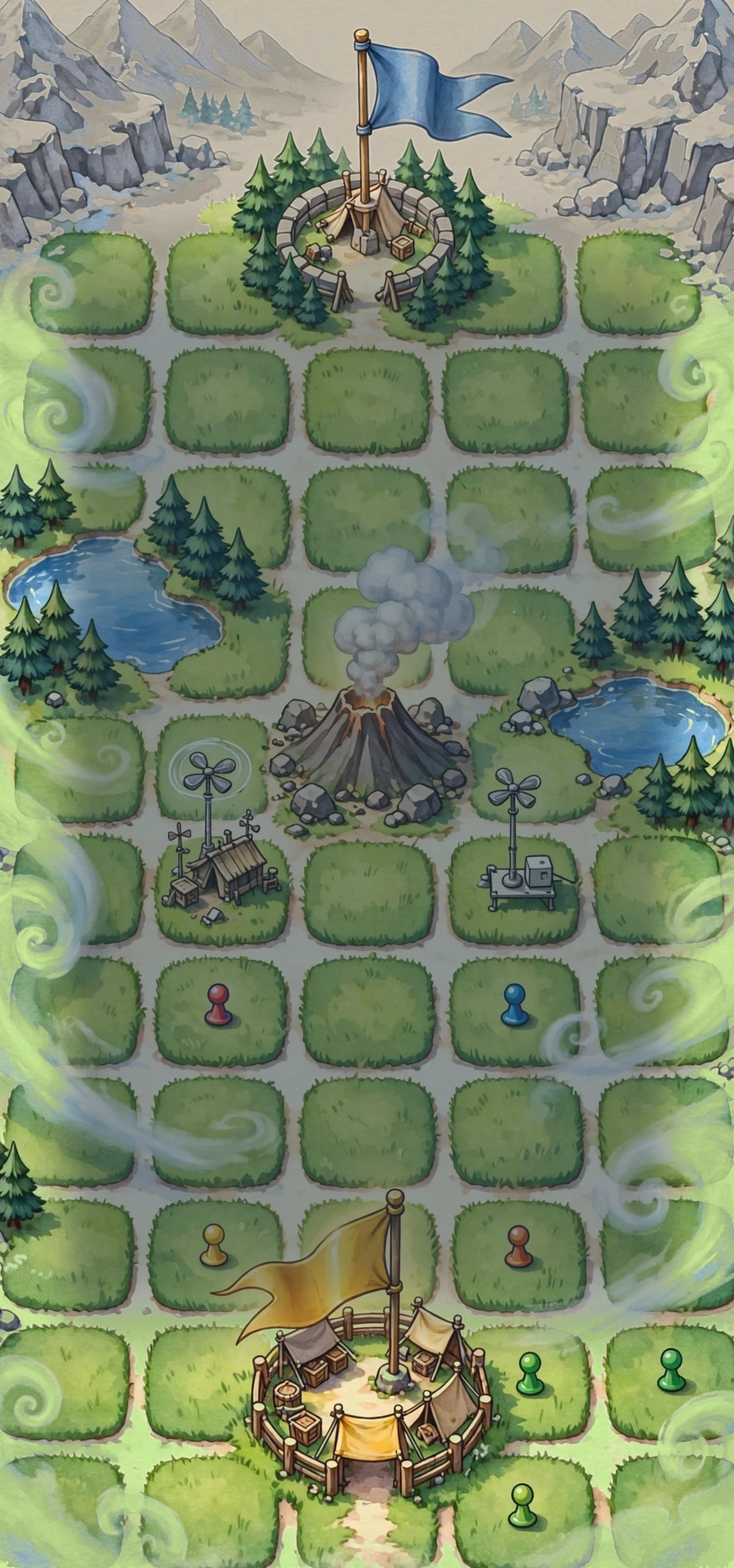
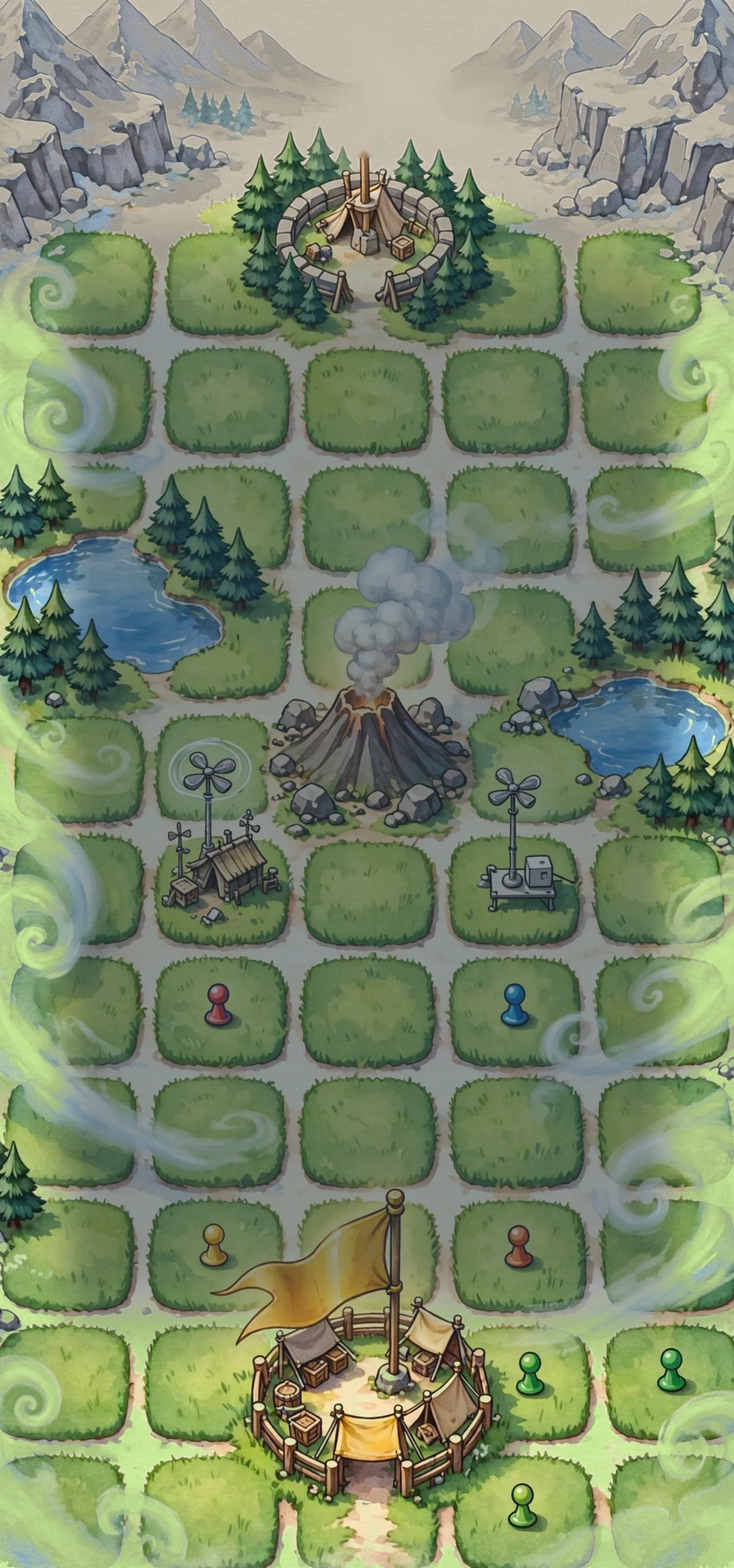
v47: menu iniziale adattato allo schermo, tolta bandiera dello sfondo
Claude-Session: https://claude.ai/code/session_01EeKiG8y1kcPbdSHUHGW8AA

Changed region(s): [[0.4612, 0.0, 0.7071, 0.0932]]

diff --git a/www/index.html b/www/index.html
@@ -132,7 +132,9 @@ body.gpui #ovStart .card h1{font-size:0;flex:none;height:118px;margin:-4px 0 0;b
 
 /* Menu iniziale «Mare dipinto» (pezzi di Muse estratti dalla bozza approvata) */
 body.gpui #ovStart{background:url(assets/menu/sfondo_menu.webp) center/cover no-repeat;padding-top:62px}
-body.gpui #ovStart .card{position:relative;isolation:isolate;overflow:visible;background:none;border:0;border-radius:0;max-width:392px;padding:88px 34px 40px;gap:8px;max-height:100%}
+body.gpui #ovStart{padding:62px 8px 10px}
+body.gpui #ovStart .card{box-sizing:border-box;width:100%;position:relative;isolation:isolate;overflow:visible;background:none;border:0;border-radius:0;max-width:392px;padding:88px 30px 40px;gap:8px;max-height:none}
+body.gpui #ovStart img.tx{max-width:100%;height:auto}
 body.gpui #ovStart .card::before{content:'';position:absolute;inset:0;z-index:-1;border:80px solid transparent;border-image:url(assets/menu/menu_pannello.png) 240 fill/80px stretch;pointer-events:none}
 body.gpui #ovStart .card::after{content:'';position:absolute;left:50%;top:0;width:150px;height:150px;transform:translate(-50%,-50%);background:url(assets/menu/menu_simbolo.png) center/contain no-repeat;pointer-events:none;z-index:2}
 body.gpui #ovStart .card h1{height:80px;font-size:0;margin:-14px 0 -6px;background:url(assets/menu/menu_titolo.png) center/contain no-repeat;flex:none}
@@ -809,6 +811,10 @@ const LS={
 let LOOK=6; // fisso: terreno a caselle separate su campo unico
 /* Registro modifiche: la prima voce è la versione attuale. Si aggiorna a ogni modifica. */
 const CHANGELOG=[
+{v:47,d:'24 nov 2026',t:'Menu iniziale adattato allo schermo',n:[
+'Il menu iniziale ora si adatta a ogni telefono: se lo schermo e\' piu\' piccolo la scheda si rimpicciolisce con la cornice intera, senza piu\' tagli ai lati o in basso',
+'Tolta la bandiera blu dello sfondo che finiva dietro l\'isoletta'
+]},
 {v:46,d:'24 nov 2026',t:'Isoletta ridisegnata e sfondo a colori naturali',n:[
 'Nuova isoletta con vulcano e due palme, disegnata da zero in pastello e nitida',
 'Sfondo del menu: via la neve e il bianco, montagne di roccia e prati verdi a colori naturali'
@@ -2310,6 +2316,21 @@ $('bLook').onclick=()=>{LOOK=(LOOK+1)%7;LS.set('isole-look',String(LOOK));lookLa
 function lookLabel(){$('bLook').textContent='Terreno (prova): '+LOOKN[LOOK]}
 function g3Label(){$('bG3').textContent='Oggetti 3D (prova): '+(G3?'accesi':'spenti')}
 g3Label();lookLabel();
+
+/* Adatta il menu iniziale allo schermo: scala la scheda (cornice compresa) se e' piu' alta o larga dello spazio disponibile */
+function fitStart(){
+  const o=$('ovStart'),c=o&&o.querySelector('.card');if(!c||o.hidden)return;
+  if(c.querySelector('details[open]'))return;
+  c.style.zoom='1';
+  const cs=getComputedStyle(o),pt=parseFloat(cs.paddingTop)||0,pb=parseFloat(cs.paddingBottom)||0;
+  const h=c.offsetHeight,w=c.offsetWidth;
+  const z=Math.min(1,(o.clientHeight-pt-pb)/h,(o.clientWidth-8)/w);
+  c.style.zoom=z<0.995?String(Math.max(0.5,z)):'1';
+}
+(()=>{let t=0;const go=()=>{cancelAnimationFrame(t);t=requestAnimationFrame(fitStart)};
+  new MutationObserver(go).observe($('ovStart'),{attributes:true,subtree:true,childList:true,characterData:true,attributeFilter:['hidden','open','class','style']});
+  addEventListener('resize',go);addEventListener('orientationchange',go);go();
+  document.querySelectorAll('#ovStart details').forEach(d=>d.addEventListener('toggle',()=>{if(!d.open)go()}))})();
 $('bGP').onclick=()=>{GP.on=!GP.on;LS.set('isole-gp',GP.on?'1':'0');if(GP.on)gpLoad();gpLabel()};
 gpLabel();
 $('bLog').textContent='Novità e registro modifiche · versione '+CHANGELOG[0].v;

diff --git a/CHANGELOG.md b/CHANGELOG.md
@@ -2,6 +2,9 @@
 
 (Lo stesso registro è dentro il gioco: menu iniziale → «Novità e registro modifiche».)
 
+## v47 — 24 nov 2026 · Menu adattato allo schermo
+- La scheda del menu iniziale si scala per stare sempre intera (cornice compresa); tolta la bandiera dietro l'isoletta
+
 ## v46 — 24 nov 2026 · Isoletta ridisegnata e sfondo naturale
 - Nuova isoletta con vulcano e palme; sfondo del menu senza neve, a colori naturali
 
